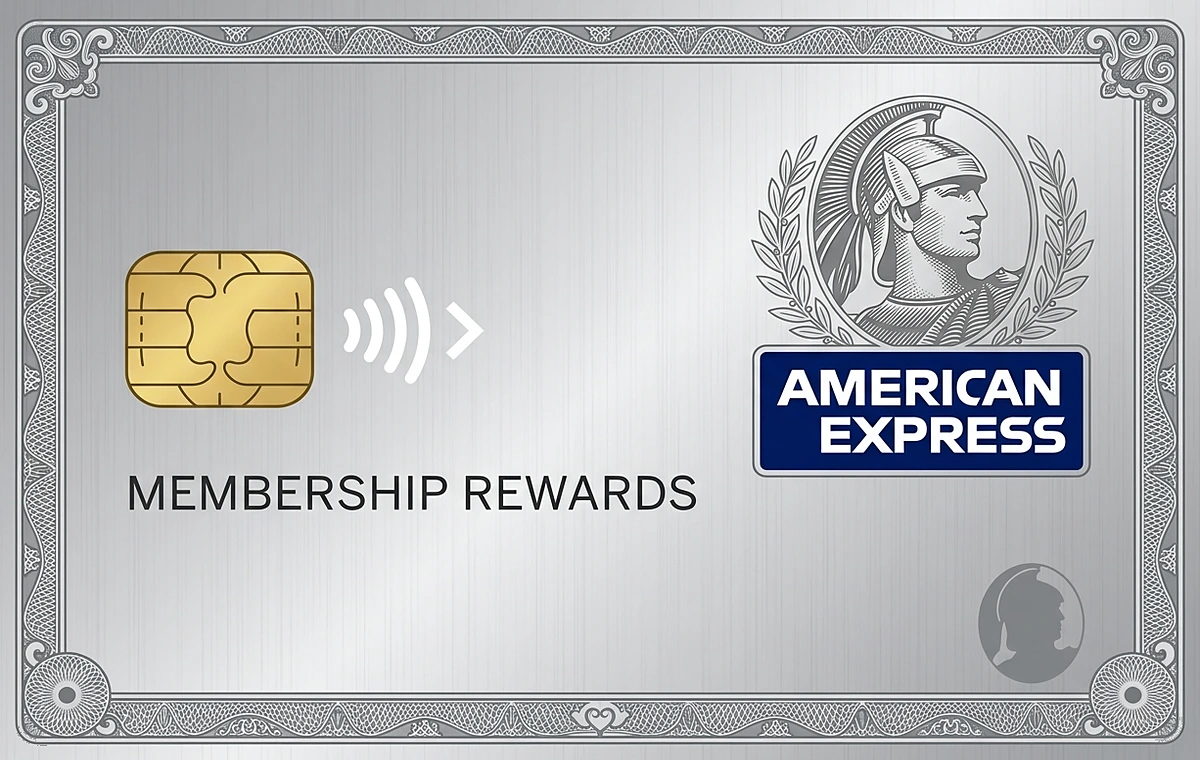
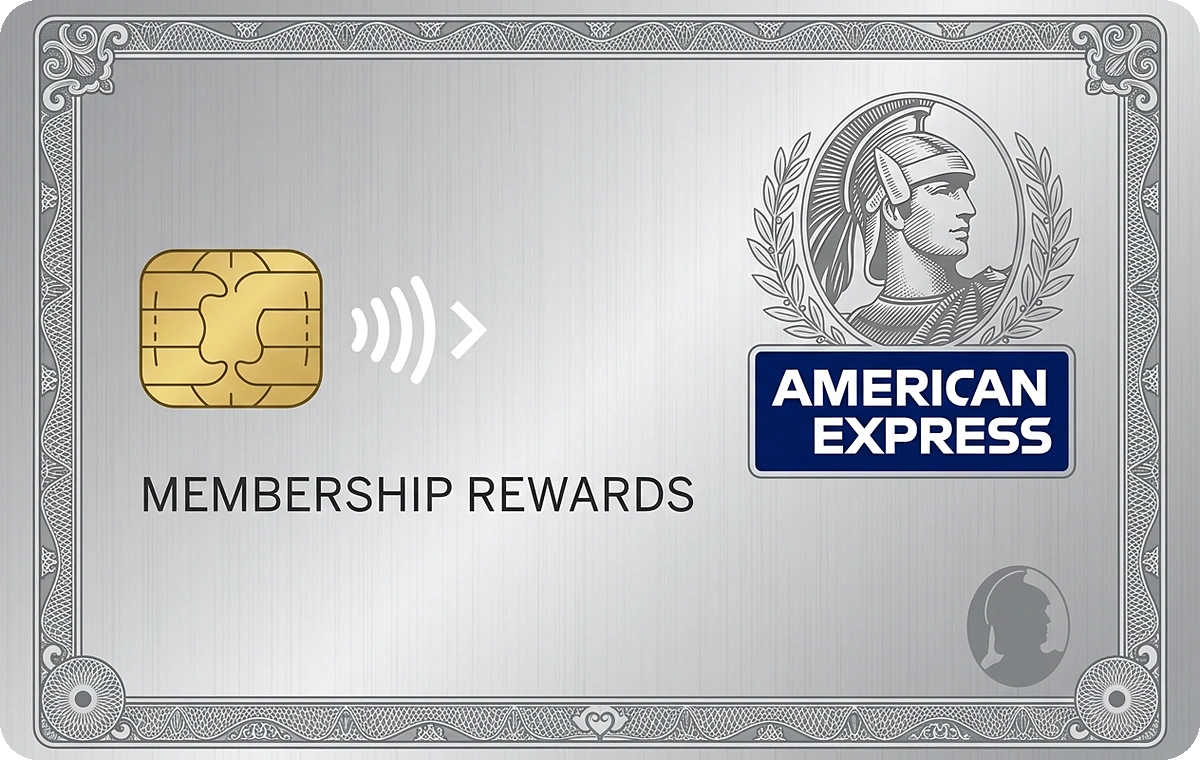
feat(cards): Phase 3 American Express cards authentic physical replicas
- Clean and upscale Amex Platinum Metal (1200x760) removing dummy names, 7997 CID, and Member Since 09
- Clean and upscale Amex Gold Card (1200x760) with authentic golden guilloche scrollwork and Centurion medallion
- Clean and upscale Amex Platinum Reserve (1200x760) on dark slate Centurion toga background
- Upgrade Amex Membership Rewards (MRCC) (1200x760) with concentric ripple pattern, EMV microchip, and official Blue Box logo
- Rebuild ICICI Sapphiro Amex companion card (1200x760) replacing flawed RuPay badge with authentic American Express Blue Box branding
- Export ultra-crisp .png and .webp variants with smooth rounded corner masks
- Add comprehensive Vitest test coverage in creditCardArtwork.test.ts

Changed region(s): [[0.0, 0.0, 1.0, 1.0]]

diff --git a/src/__tests__/creditCardArtwork.test.ts b/src/__tests__/creditCardArtwork.test.ts
@@ -159,6 +159,14 @@ describe("Credit Card Artwork & Variant Visuals Engine", () => {
       expect(amexPlat?.imageUrl).toMatch(/cards\/amex-platinum|aexp-static\.com/);
       expect(amexPlat?.officialImageUrl).toContain("aexp-static.com");
 
+      const amexGold = getMatchingCardPreset("Amex Gold Card", "Amex");
+      expect(amexGold?.imageUrl).toBe("/cards/amex-gold.png");
+      expect(amexGold?.officialImageUrl).toContain("aexp-static.com");
+
+      const amexReserve = getMatchingCardPreset("Amex Platinum Reserve", "Amex");
+      expect(amexReserve?.imageUrl).toBe("/cards/amex-reserve.png");
+      expect(amexReserve?.officialImageUrl).toContain("aexp-static.com");
+
       const onecard = getMatchingCardPreset("OneCard Metal", "Visa");
       expect(onecard?.imageUrl).toMatch(/cards\/onecard-metal|getonecard\.app/);
       expect(onecard?.officialImageUrl).toContain("getonecard.app");

diff --git a/src/utils/cardAssets.ts b/src/utils/cardAssets.ts
@@ -679,6 +679,7 @@ export const CARD_ART_PRESETS: CardArtPreset[] = [
     badgeText: "PLATINUM RESERVE",
     patternType: "filigree",
     imageUrl: "/cards/amex-reserve.png",
+    officialImageUrl: "https://icm.aexp-static.com/Internet/internationalcardshop/en_in/images/cards/bold_reserve_in_960x608.png",
   },
   {
     id: "amex-gold",
